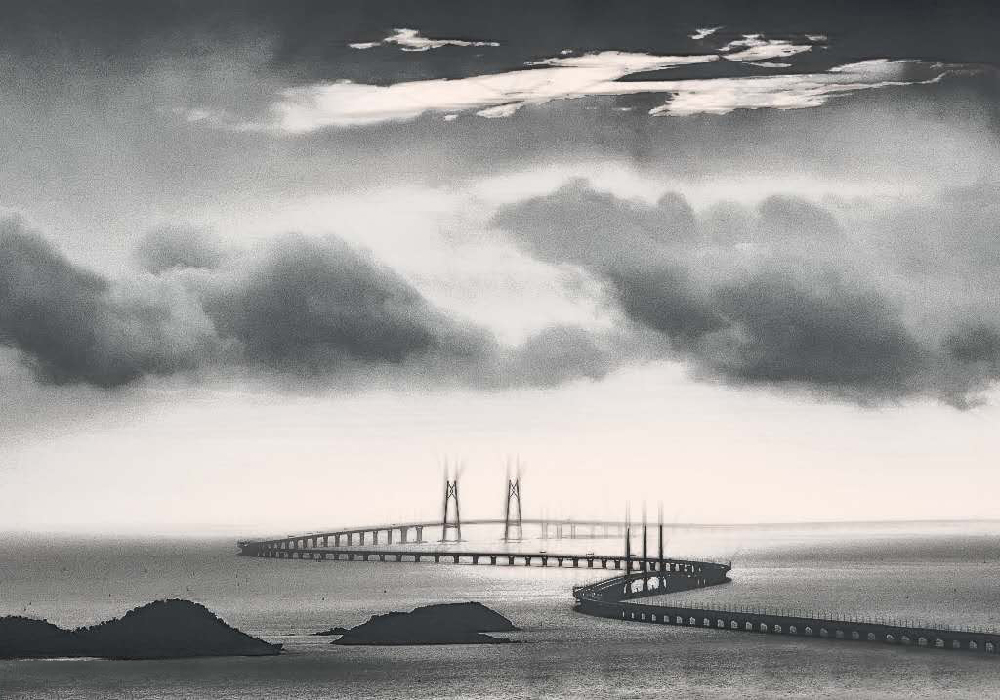
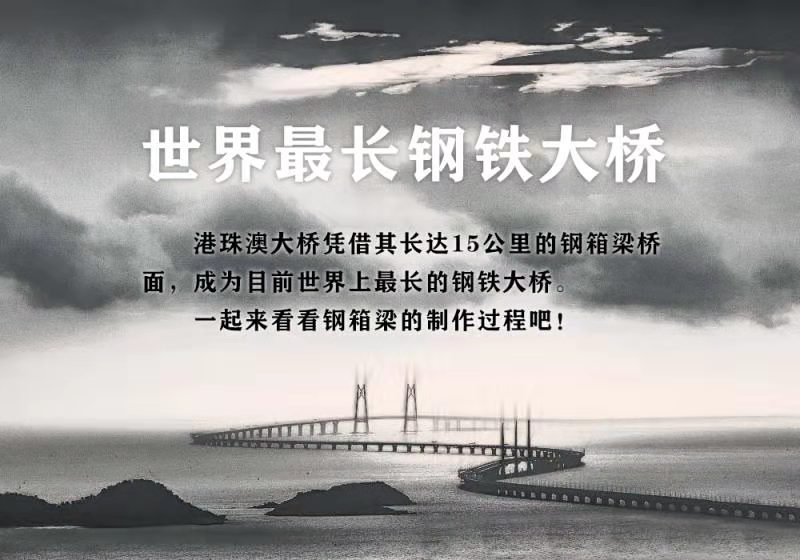
更新九洲桥图集

Changed region(s): [[0.1562, 0.3946, 0.8438, 0.6071], [0.1562, 0.2125, 0.8438, 0.3339]]

diff --git a/src/views/JiuZhouQiao.vue b/src/views/JiuZhouQiao.vue
@@ -3,7 +3,6 @@
     <page page-name="JiuZhouQiao" autoplay can-skip :opacity="opacity">
       <template v-if="isLoop" slot-scope="{ isLoop }">
         <nav-bar/>
-        <span class="hint" @click.native="showVideo('1-1')">点击查看</span>
         <dot :style="{ top: '1.1rem', left: '6.3rem' }" text="风帆塔" @click.native="showVideo('1-1')"/>
         <dot :style="{ top: '4.2rem', left: '10rem' }" text="世界最长的钢铁大桥" @click.native="showImages"/>
         <dot :style="{ top: '3.8rem', left: '14.5rem' }" text="桥墩建造" @click.native="$redirect('/QiaoDun')"/>
@@ -24,24 +23,23 @@ export default {
       imgsVisiable: false,
       opacity: 0,
       textList: [
-        '世界最长钢铁大桥',
-        '1、港珠澳大桥凭借其长达15公里的钢箱梁桥面，成为目前世界上最长的钢铁大桥。图为港珠澳大桥桥梁部分。',
-        '2、钢箱梁制造分为板单元制造、箱梁段组拼、桥位吊装三个阶段，其中板单元是基本元件。图为河北山海关的板单元机械化生产车间。',
-        '3、我国自主研发的反变形机器人自动焊接系统，提高了钢箱梁板单元的制造质量。图为机器人焊接板单元',
-        '4、港珠澳大桥钢箱梁板单元制造实现了自动化制造与焊接技术，是世界首创。图为机器人自动化用火焰切割下料。',
-        '5、板单元在山海关批量生产制造完成后，通过海上运输送到广东中山的钢箱梁总拼接基地进行组装。',
-        '6、钢箱梁总拼接基地实现“车间化、机械化、自动化”，是为港珠澳大桥“量身定做”的现代化工厂。图为底板拼装。',
-        '7、钢箱梁就是从一个板单元，一块板一块板地焊接成一个整体。图为钢箱梁正在拼装。',
-        '8、板单元先拼装装为小节段，小节段再拼接为大节段。图为给钢箱梁“梳妆打扮”，打砂除锈，喷漆涂装。',
-        '9、分段完成涂装后，再进行大节段组焊及预拼装。图为拼接完成的大节段。',
-        '10、拥有968个轮子、重达3000吨的运梁车将大节段运出厂房。',
-        '11、首段大节段装船发运。经过海上拖运，一直送到目的地，准备吊装。',
-        '12、图为钢箱梁在海上运输。',
-        '13、图为首跨钢箱梁在深海区的架设成功完成。',
-        '14、整体吊装在原来桥梁建设中极少使用，而港珠澳大桥建设过程中已经成为“家常便饭”。图为海上吊装大节段。',
-        '15、钢箱梁通过巨大的吊具吊装到桥墩上。',
-        '16、2016年4月，851个钢箱梁已经全部安装在桥墩上，再次向世界展示了中国的工程实力。图为钢箱梁合龙中。',
-        '17、从珠海望过去，钢箱梁架设成的港珠澳大桥在海中蜿蜒前进。',
+        '',
+        '钢箱梁制造分为板单元制造、箱梁段组拼、桥位吊装三个阶段，其中板单元是基本元件。图为河北山海关的板单元机械化生产车间。',
+        '我国自主研发的反变形机器人自动焊接系统，提高了钢箱梁板单元的制造质量。图为机器人焊接板单元',
+        '港珠澳大桥钢箱梁板单元制造实现了自动化制造与焊接技术，是世界首创。图为机器人自动化用火焰切割下料。',
+        '板单元在山海关批量生产制造完成后，通过海上运输送到广东中山的钢箱梁总拼接基地进行组装。',
+        '钢箱梁总拼接基地实现“车间化、机械化、自动化”，是为港珠澳大桥“量身定做”的现代化工厂。图为底板拼装。',
+        '钢箱梁就是从一个板单元，一块板一块板地焊接成一个整体。图为钢箱梁正在拼装。',
+        '板单元先拼装装为小节段，小节段再拼接为大节段。图为给钢箱梁“梳妆打扮”，打砂除锈，喷漆涂装。',
+        '分段完成涂装后，再进行大节段组焊及预拼装。图为拼接完成的大节段。',
+        '拥有968个轮子、重达3000吨的运梁车将大节段运出厂房。',
+        '首段大节段装船发运。经过海上拖运，一直送到目的地，准备吊装。',
+        '图为钢箱梁在海上运输。',
+        '图为首跨钢箱梁在深海区的架设成功完成。',
+        '整体吊装在原来桥梁建设中极少使用，而港珠澳大桥建设过程中已经成为“家常便饭”。图为海上吊装大节段。',
+        '钢箱梁通过巨大的吊具吊装到桥墩上。',
+        '2016年4月，851个钢箱梁已经全部安装在桥墩上，再次向世界展示了中国的工程实力。图为钢箱梁合龙中。',
+        '从珠海望过去，钢箱梁架设成的港珠澳大桥在海中蜿蜒前进。',
       ],
     }
   },
@@ -49,8 +47,8 @@ export default {
     images () {
       return this.textList.map((text, index) => {
         return {
-          url: require(`../assets/worldlong/${index}.jpg`),
-          text,
+          url: require(`../assets/worldlong/${index + 1}.jpg`),
+          text: `${index === 0 ? '' : `${index}. `}${text}`,
         }
       })
     },
